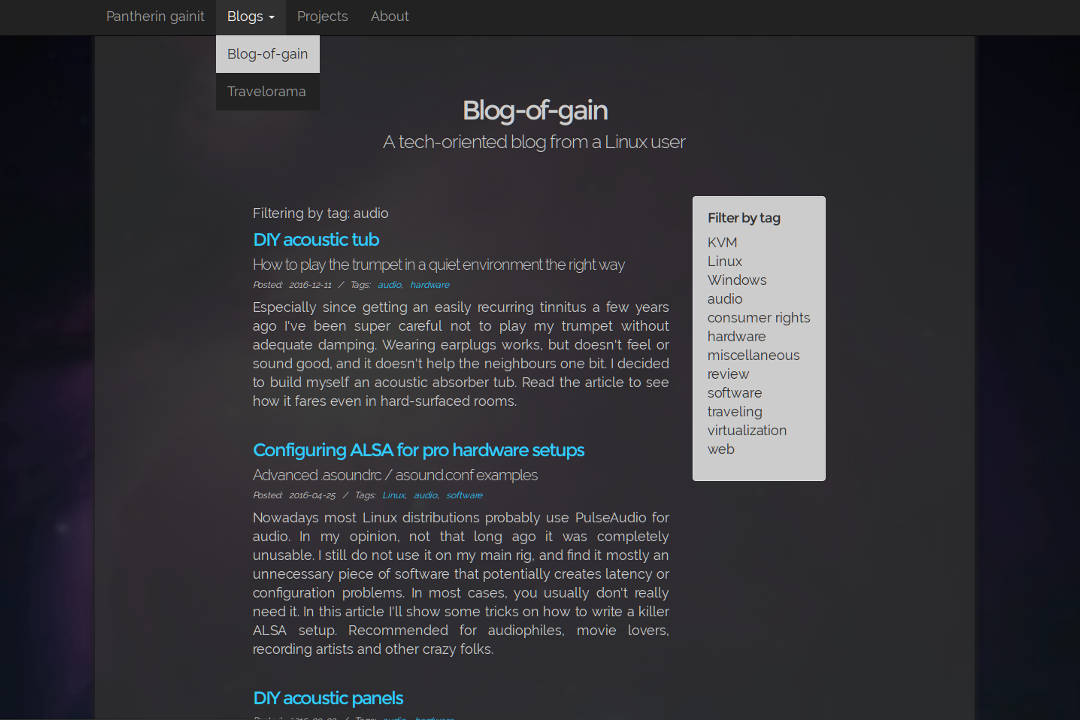
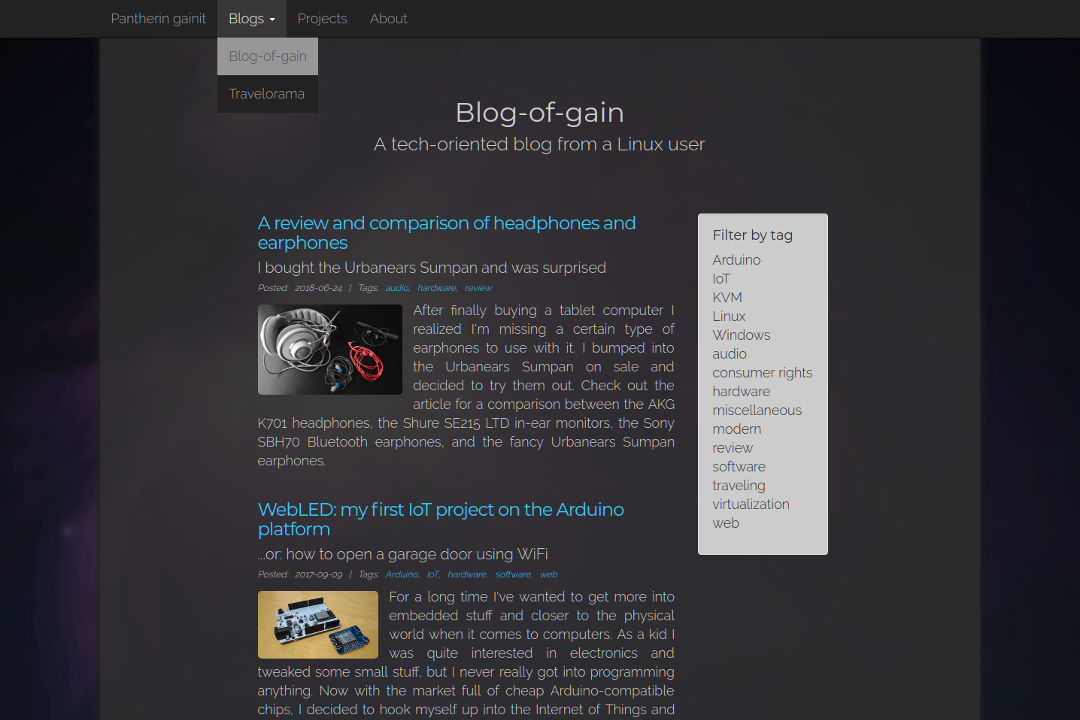
Add link to preview image; update screenshot.

Changed region(s): [[0.2139, 0.275, 0.7639, 1.0], [0.0917, 0.0, 0.3972, 0.1528], [0.3361, 0.1222, 0.6417, 0.2139]]

diff --git a/site/blog.php b/site/blog.php
@@ -98,9 +98,10 @@ $stats_dir = $blog_url;
                     } elseif (file_exists($postpath . "intro.png")) {
                         $preview_ext = "png";
                     }
-                    # The element structure is as Parsedown would do it.
+                    # Except for the link, the element structure is as Parsedown would do it.
                     $preview_image = empty($preview_ext) ? "" :
-                        ('<p></p><div class="img-container"><img src="' . $postpath . '/intro.' . $preview_ext . '" alt="Preview"></div><p></p>');
+                        ('<p></p><a href="' . $hrefpath . '"><div class="img-container"><img src="' .
+                        $postpath . '/intro.' . $preview_ext . '" alt="Preview"></div></a><p></p>');
 
                     # Add header links to article and post metadata.
                     echo "<article>" . preg_replace("/<h1>(.*)<\/h1>(\n<h2>.*<\/h2>)?/",

diff --git a/site/posts/2015-08-15_acoustic_panels/intro.md b/site/posts/2015-08-15_acoustic_panels/intro.md
@@ -1,5 +1,5 @@
 # DIY acoustic panels
 
-![Panels](thumb.jpg)
+[![Panels](thumb.jpg)](../../../posts/2015-08-15_acoustic_panels)
 
 I made some acoustic panels. Here I'll tell how... Also, a picture of the panels.
